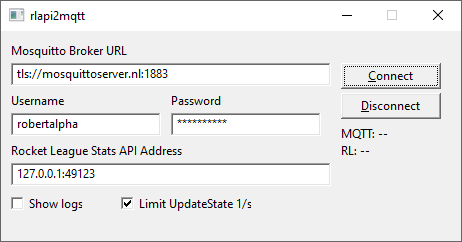
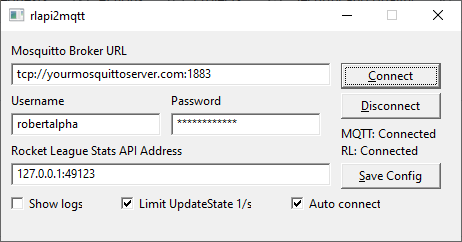
updated README.md stop truncating log lines

diff --git a/internal/service/companion.go b/internal/service/companion.go
@@ -115,11 +115,7 @@ func (c *Companion) handleGameEvent(event port.GameEvent) {
 
 	topic := fmt.Sprintf("%s/%s", c.topicPrefix, strings.ToLower(event.Event))
 
-	preview := string(event.Data)
-	if len(preview) > 120 {
-		preview = preview[:120] + "..."
-	}
-	c.onStatus(fmt.Sprintf("[%s] %s", event.Event, preview))
+	c.onStatus(fmt.Sprintf("[%s] %s", event.Event, event.Data))
 
 	err := c.broker.Publish(topic, event.Data)
 	if err != nil {

diff --git a/README.md b/README.md
@@ -28,13 +28,14 @@ An example consumer is [rocketleague-announcer](https://github.com/robertalpha/r
 
 ## Configuration
 
-You can use the UI to configure. To use it on next startup use the `Save config` button to store the credentials in a  `rlapi2mqtt.ini` in the same directory.
+You can use the UI to configure. To use it on next startup use the `Save config` button to store the credentials in a `rlapi2mqtt.ini` in the same directory.
 
 ```ini
 MQTT_URL=tcp://localhost:1883
 MQTT_USERNAME=user
 MQTT_PASSWORD=password
 RL_ADDRESS=127.0.0.1:49123
+AUTO_CONNECT=false
 ```
 
 All fields can also be filled in through the GUI at runtime.
@@ -48,3 +49,7 @@ make build
 ```
 
 This produces `rlapi2mqtt.exe`.
+
+## Reference
+
+This project is inspired by the end-of-life Bakkes Plugin RL2MQTT made by Janoz-NL found here: [RL2MQTT](https://github.com/Janoz-NL/RL2MQTT)
